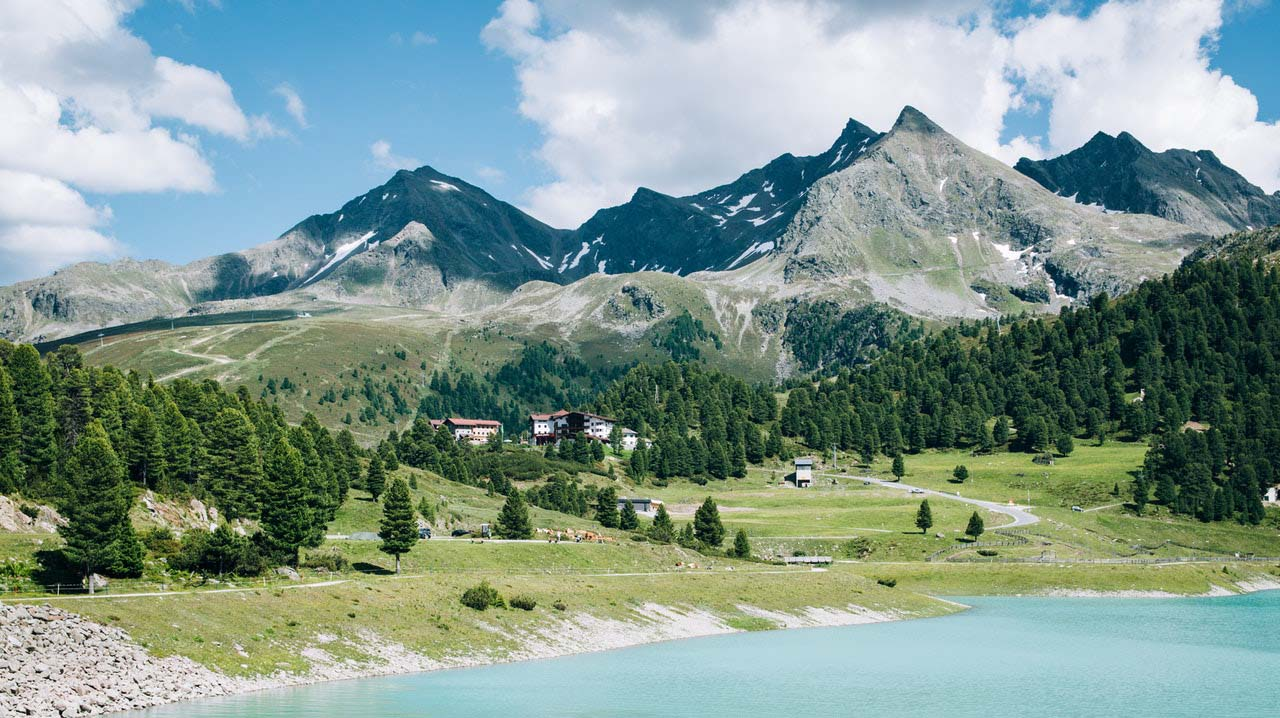
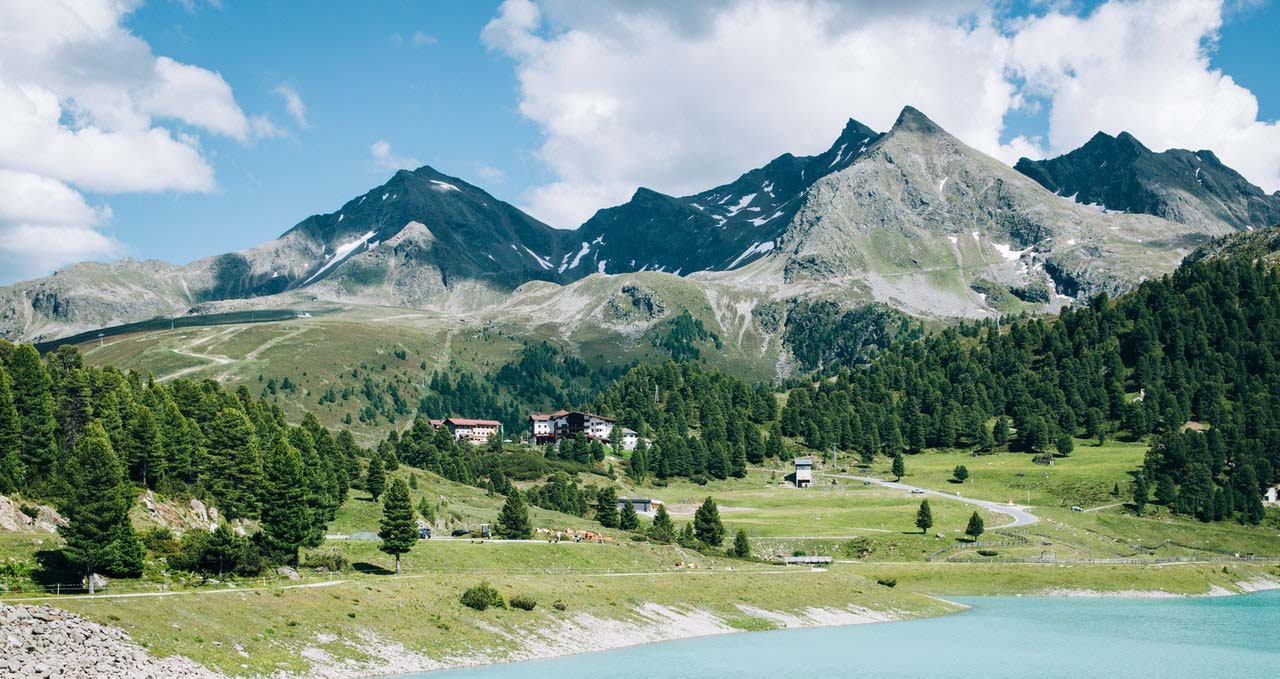
First Commit

diff --git a/assets/css/style.css b/assets/css/style.css
@@ -302,7 +302,7 @@ h1, h2, h3, h4, h5, h6 {
 #hero {
   width: 100%;
   height: 100vh;
-  background: url("../img/hero-bg.jpg") bottom center;
+  background: url("../img/hero-bg.jpg") bottom right;
   background-size: cover;
   position: relative;
 }
